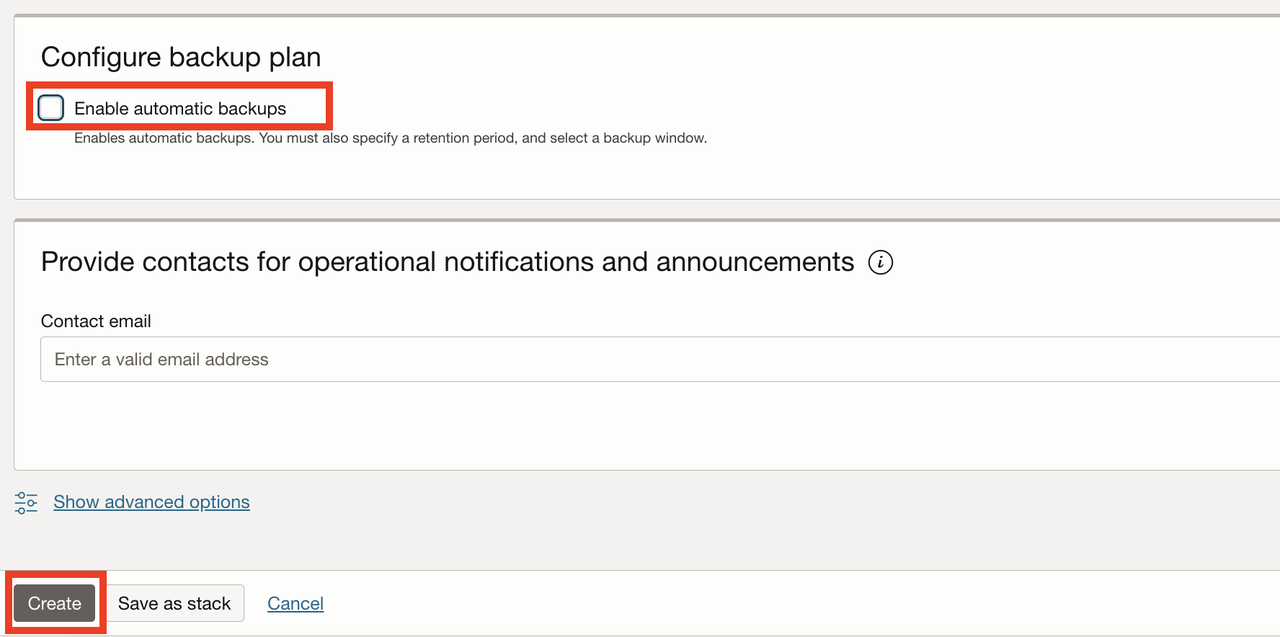
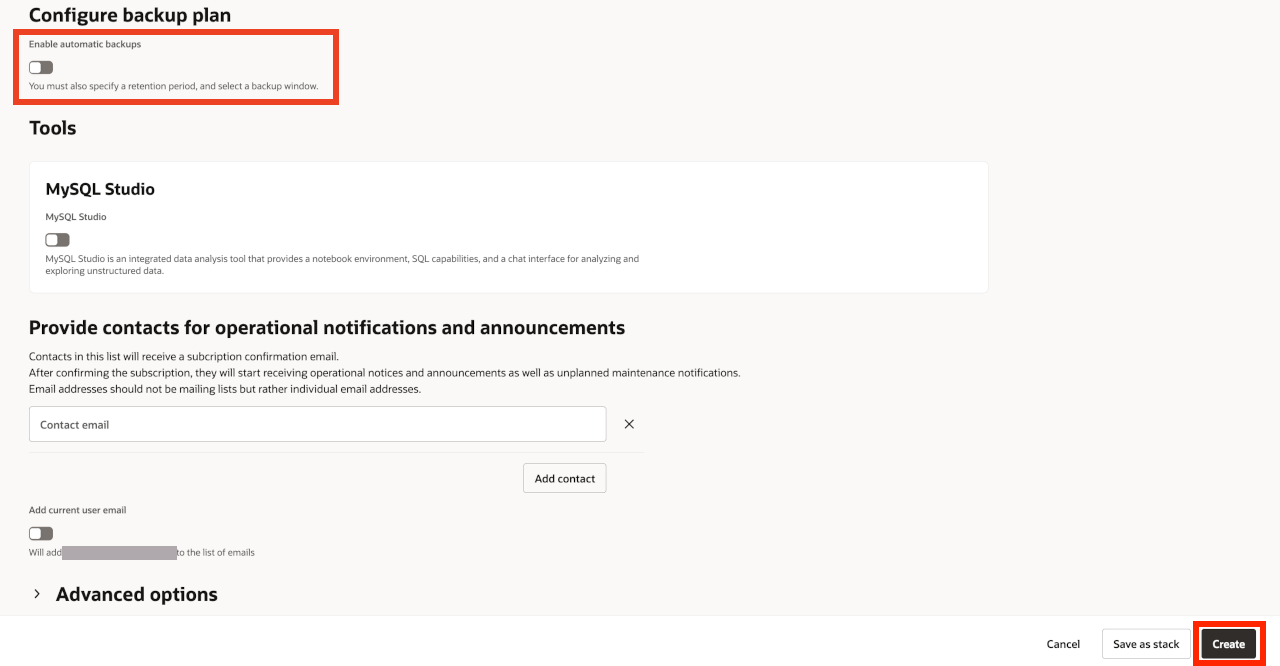
Added news images (1280 px) and fixed format issues (#587)
* Fresh screenshots (1280w)

* Fixed image size and formatting issues

* New images (1280px) and fixed format issues

* Fixed image name error

* New images (1280 px) and fixed format issues

Pull request: Added news images (1280 px) and fixed format issues
# Add here your WMS ID
11760

# Our SLAs
[Please review before contacting us](https://oracle-livelabs.github.io/common/sample-livelabs-templates/create-labs/labs/workshops/livelabs/?lab=sla)

# General requirements
1. Information in the workshop is adequate and updated
2. Code is correct and working
3. Links are correct
4. Make sure you enter the help email link in your manifest.json
5. Please make sure WMS URLs are updated as needed after your PR is approved


# Checklist - Refer to the Self QA Checklist in WMS for the complete list
Please confirm that the following is completed before submitting your PR

- [Y] [Complete the Self QA Checklist in WMS](https://oracle-livelabs.github.io/common/sample-livelabs-templates/create-labs/labs/workshops/livelabs/?lab=5-labs-qa-checks#Task3:SelfQA)
- [Y] Your workshop folder structure should be similar to the one used in the [sample workshop](https://github.com/oracle-livelabs/common/tree/main/sample-livelabs-templates/sample-workshop)
- [Y] All filenames are lowercase and descriptive (including folders, images, files, etc.)
- [Y] Image references in markdown contain an alternate text.
- [Y] Ensure the PR does not contain binary or install files and files larger than 100 MB.

diff --git a/gdk-oci-mysql/03-provision-mysql-db/provision-mysql-db.md b/gdk-oci-mysql/03-provision-mysql-db/provision-mysql-db.md
@@ -14,39 +14,37 @@ In this lab, you will:
 
 ## Task 1: Create MySQL HeatWave Database instance
 
-1. From the Oracle Cloud Console, open the navigation menu, click **Databases**. Under **HeatWave MySQL**, click **DB Systems**
+1. From the Oracle Cloud Console, open the navigation menu, click **Databases**. Under **HeatWave MySQL**, click **DB Systems**.
 
-   ![Oracle Databases menu](https://oracle-livelabs.github.io/common/images/console/database-mysql.png)
+    ![Oracle Databases menu](https://oracle-livelabs.github.io/common/images/console/database-mysql.png)
 
-2. Select your workshop compartment from the **Compartment** drop down list on the left
+2. Select your workshop compartment from the **Compartment** drop down list.
 
-   ![HeatWave MySQL Landing Page](images/heatwave-mysql-landing-page.jpg#input)
+    ![HeatWave MySQL Landing Page](images/heatwave-mysql-landing-page.png)
 
 3. Click **Create DB System**.
 
-    ![Create DB System Button](images/create-db-system.jpg#input)
-
 4. You will see the **Create DB System** screen. Select **Development or testing**.
 
-    ![Create DB System Screen](images/mysql-db-system-form.png#input)
+    ![Create DB System Screen](images/mysql-db-system-form.png)
 
 5. Under the **Create administrator credentials** section, enter the username as "mysqladmin" and a password of your choice.
 
-    ![Create MySQL Admin User](images/mysql-admin-user.jpg#input)
+    ![Create MySQL Admin User](images/mysql-admin-user.jpg)
 
 6. Ensure **Standalone** is selected.
 
-    ![MySQL Standalone or HA](images/mysql-standalone-ha.jpg#input)
+    ![MySQL Standalone or HA](images/mysql-standalone-ha.jpg)
 
 7. Select from the dropdown list *llw-net-* for **VCN** and *LLW Public Subnet(Regional)* for **Subnet**.
 
-    ![MySQL Network and Placement](images/mysql-network-placement.png#input)
+    ![MySQL Network and Placement](images/mysql-network-placement.png)
 
 8. Under the **Configure hardware** section, deselect **Enable HeatWave cluster**. Leave the other default values unchanged.
 
-    ![MySQL Configure Hardware](images/mysql-configure-hw.jpg#input)
+    ![MySQL Configure Hardware](images/mysql-configure-hw.jpg)
 
-9. Under the **Configure backup plan** section, deselect **Enable automatic backups**. Click **Create**.
+9. Under the **Configure backup plan** section, deselect **Enable automatic backups**. Leave the other default values unchanged. Click **Create**.
 
     ![Disable MySQL Automatic Backup and Create](images/mysql-backup-create.png)
 